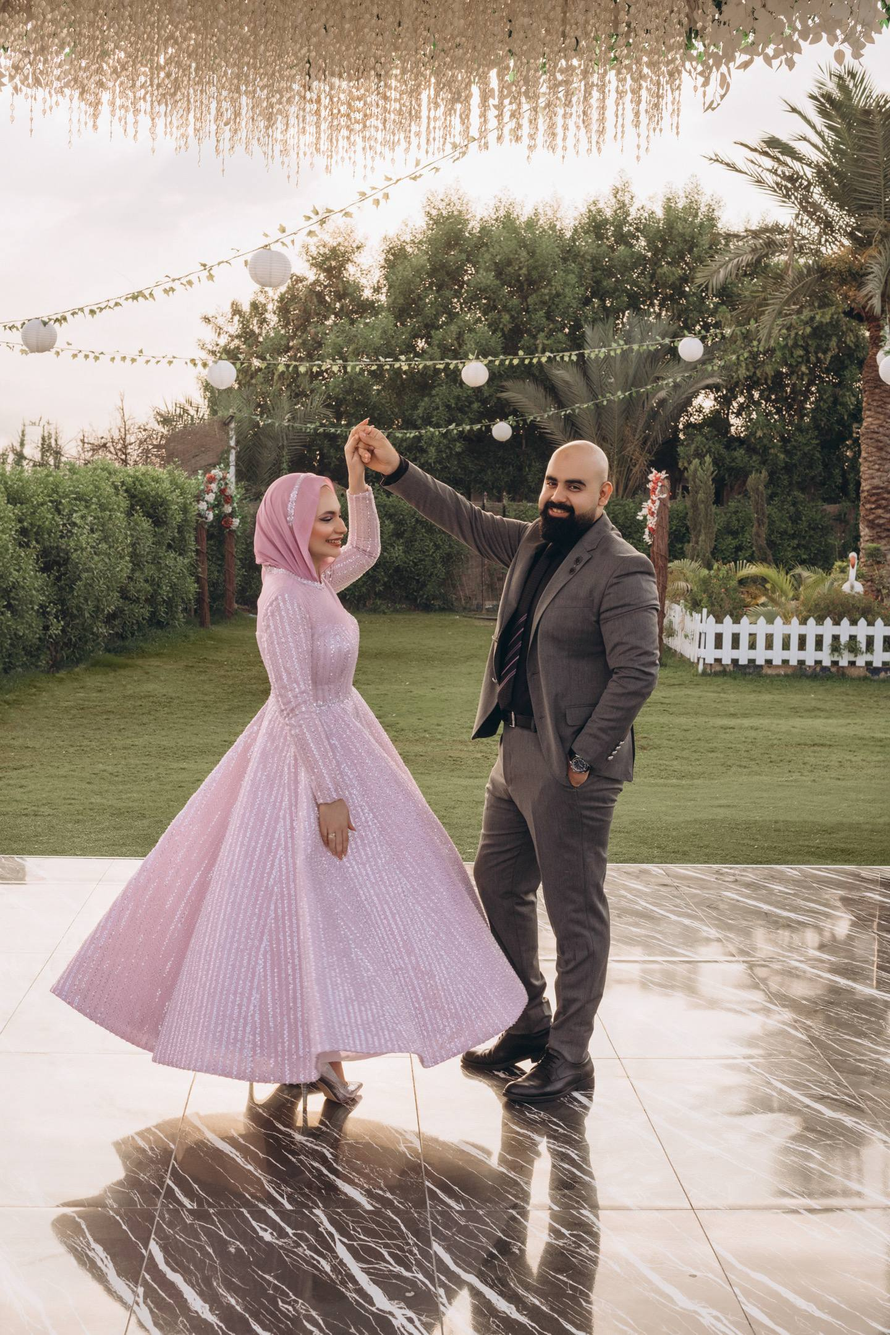
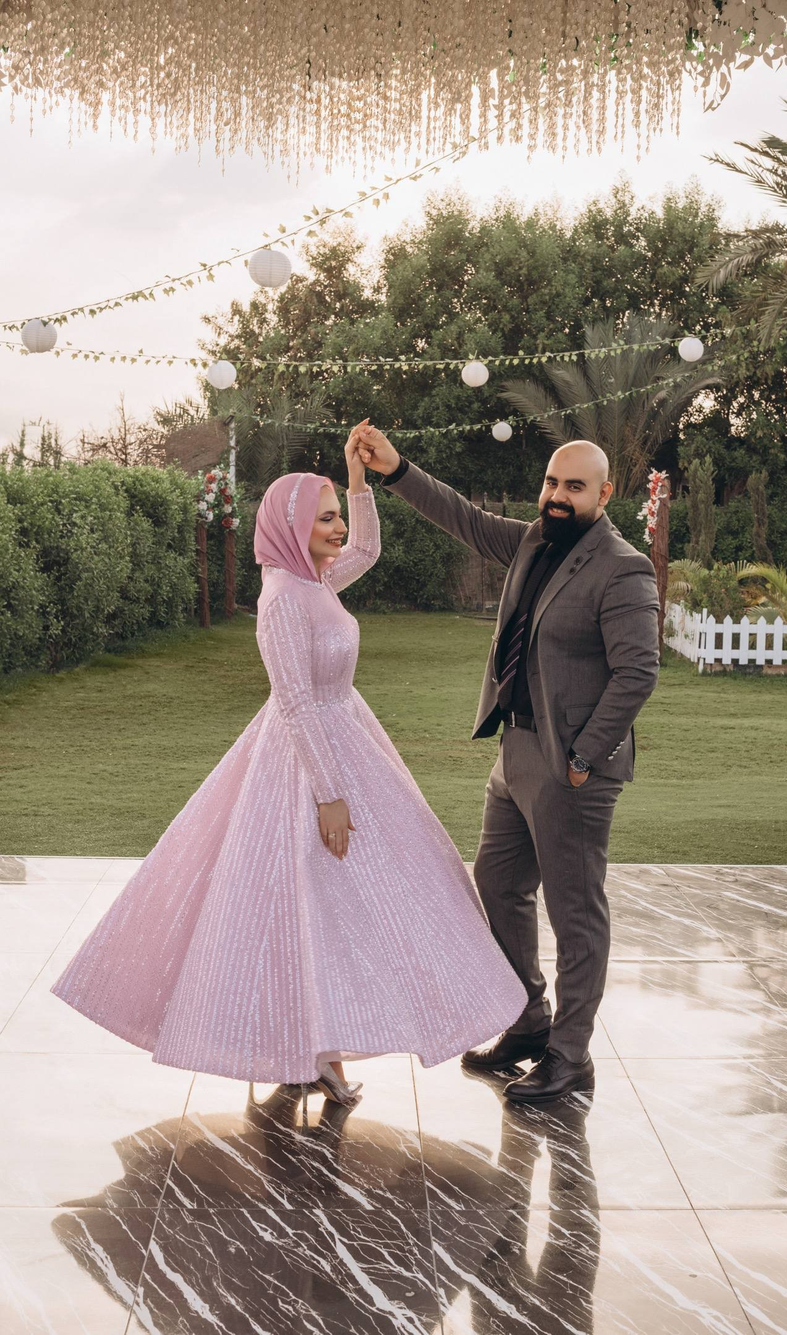
Add files via upload

diff --git a/main.html b/main.html
@@ -241,6 +241,9 @@
       line-height:2;
       margin-bottom:40px;
     }
+    .location span{
+      font-style: bold;
+    }
 
     .map{
       max-width:950px;
@@ -425,6 +428,9 @@
 
       <h1>Mohamed & Radwa</h1>
 
+      <p>🤎
+</p>
+
       <p>TOGETHER WITH THEIR FAMILIES</p>
 
       <div class="date">
@@ -441,11 +447,11 @@
   <section class="countdown hidden">
     <div class="floating-icons countdown-icons">
 
-  <span style="left:8%; animation-duration:12s;">❤</span>
+  <span style="left:8%; animation-duration:12s;">🤎</span>
   <span style="left:20%; animation-duration:18s;">❀</span>
-  <span style="left:35%; animation-duration:14s;">❤</span>
+  <span style="left:8%; animation-duration:12s;">🤎</span>
   <span style="left:50%; animation-duration:20s;">❀</span>
-  <span style="left:65%; animation-duration:15s;">❤</span>
+  <span style="left:8%; animation-duration:12s;">🤎</span>
   <span style="left:80%; animation-duration:17s;">❀</span>
 
 </div>
@@ -484,10 +490,10 @@
 
     <h2 class="location h2">Wedding Venue</h2>
 
-    <div class="location-text">
-      LA PENSEE <br>
-      Gardinia Halls
-    </div>
+    <<div class="location-text"> 
+  <strong>LA PENSÉE</strong><br> 
+  Gardinia Halls 
+</div>
 
     <div class="map">
 
@@ -503,11 +509,11 @@
     <div class="floating-icons message-icons">
 
   <span style="left:10%; animation-duration:14s;">❀</span>
-  <span style="left:25%; animation-duration:20s;">❤</span>
+  <span style="left:25%; animation-duration:20s;">🤎</span>
   <span style="left:40%; animation-duration:16s;">❀</span>
-  <span style="left:60%; animation-duration:18s;">❤</span>
+  <span style="left:25%; animation-duration:20s;">🤎</span>
   <span style="left:78%; animation-duration:13s;">❀</span>
-  <span style="left:90%; animation-duration:19s;">❤</span>
+  <span style="left:25%; animation-duration:20s;">🤎</span>
 
 </div>
 
@@ -527,7 +533,8 @@
       laughter, happiness, and forever memories.
 
       <div class="signature">
-        Mohamed & Radwa
+        🤎Mohamed & Radwa🤎
+
       </div>
 
     </div>

diff --git a/index.html b/index.html
@@ -351,9 +351,9 @@
   <div class="floating-icons">
 
     <span>❀</span>
-    <span>❤</span>
+    <span>🤎</span>
     <span>❀</span>
-    <span>❤</span>
+    <span>🤎</span>
     <span>❀</span>
 
   </div>
